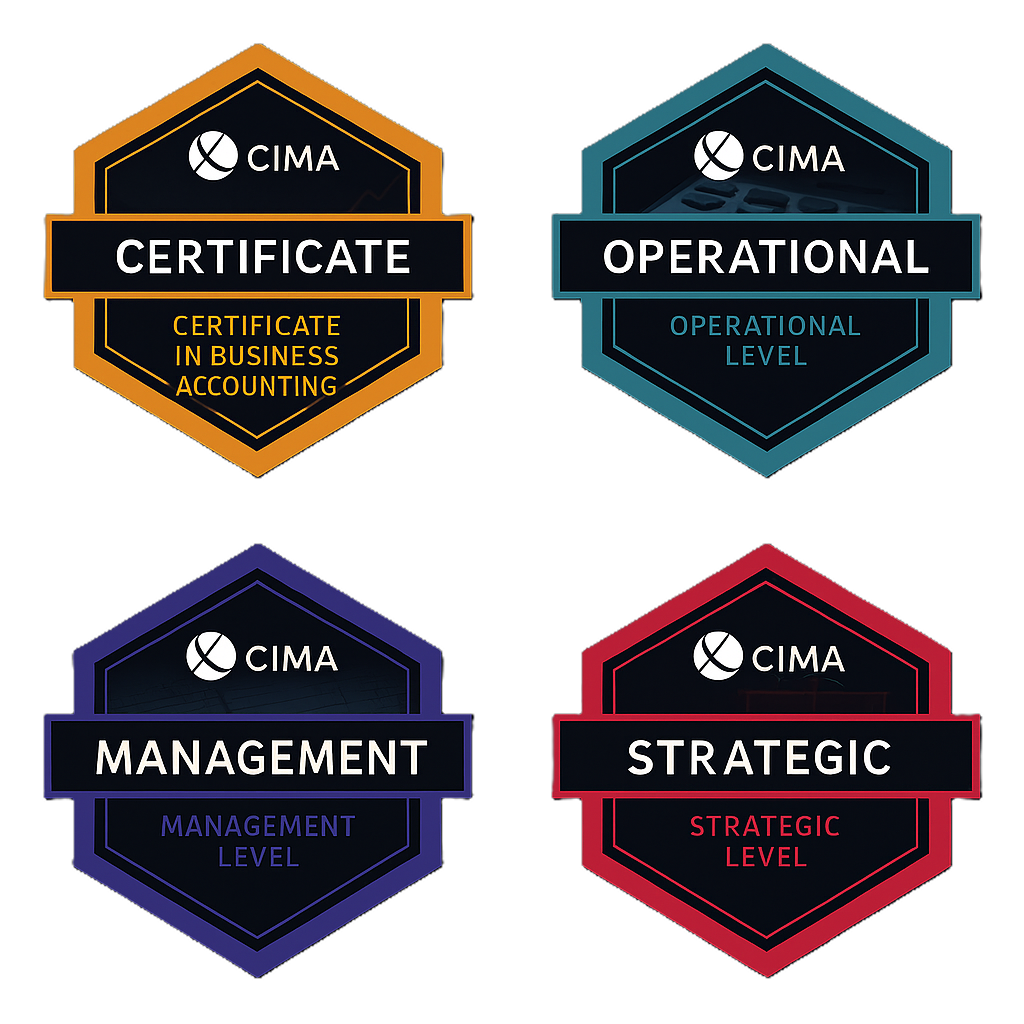
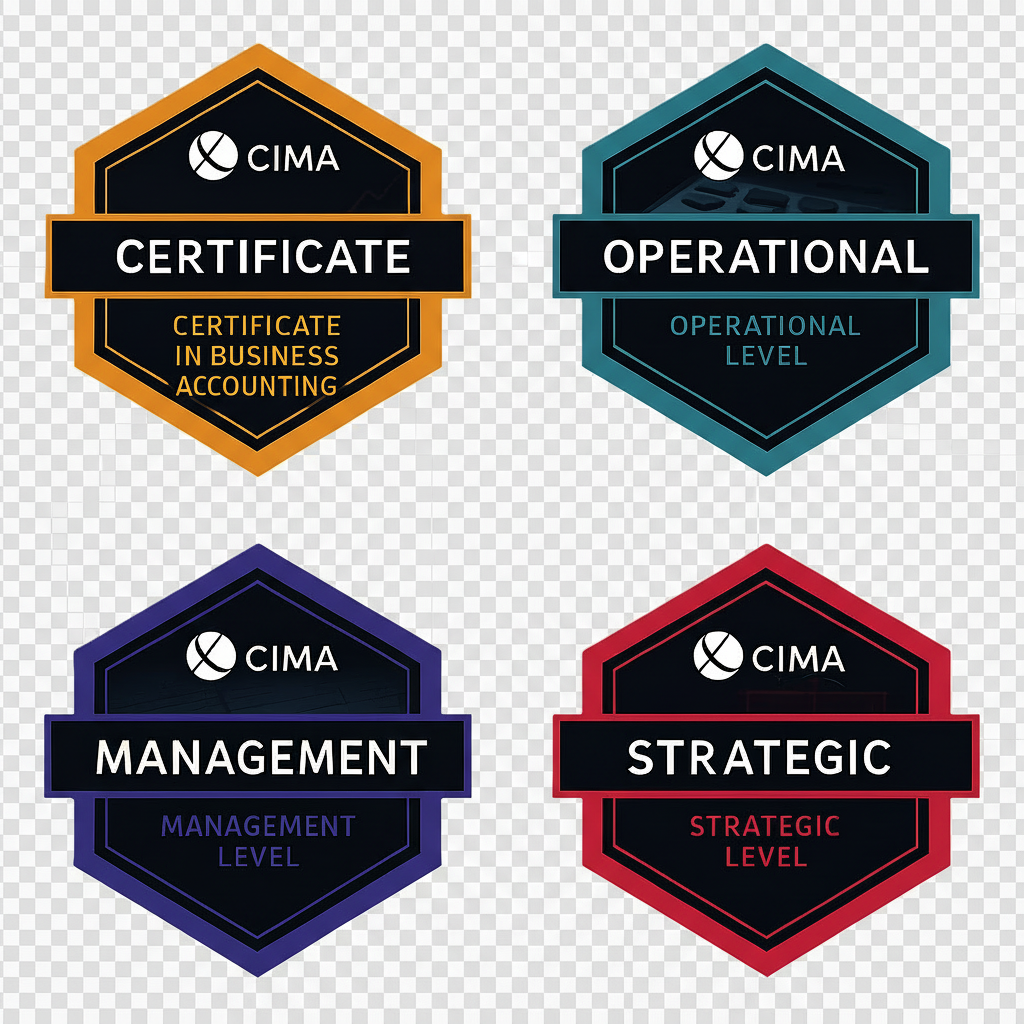
Changes

Changed region(s): [[0.0, 0.0, 1.0, 1.0], [0.25, 0.625, 0.3125, 0.6562], [0.7812, 0.625, 0.8125, 0.6562]]

diff --git a/src/components/home/CourseLevels.tsx b/src/components/home/CourseLevels.tsx
@@ -87,7 +87,7 @@ const CourseLevels = () => {
                 <img 
                   src={step.image} 
                   alt={step.title}
-                  className={`w-full h-auto ${step.number === "02" ? "object-contain mix-blend-multiply dark:mix-blend-screen dark:invert" : "object-cover aspect-[4/3]"}`}
+                  className={`w-full h-auto ${step.number === "02" ? "object-contain" : "object-cover aspect-[4/3]"}`}
                 />
               </div>
             </div>
